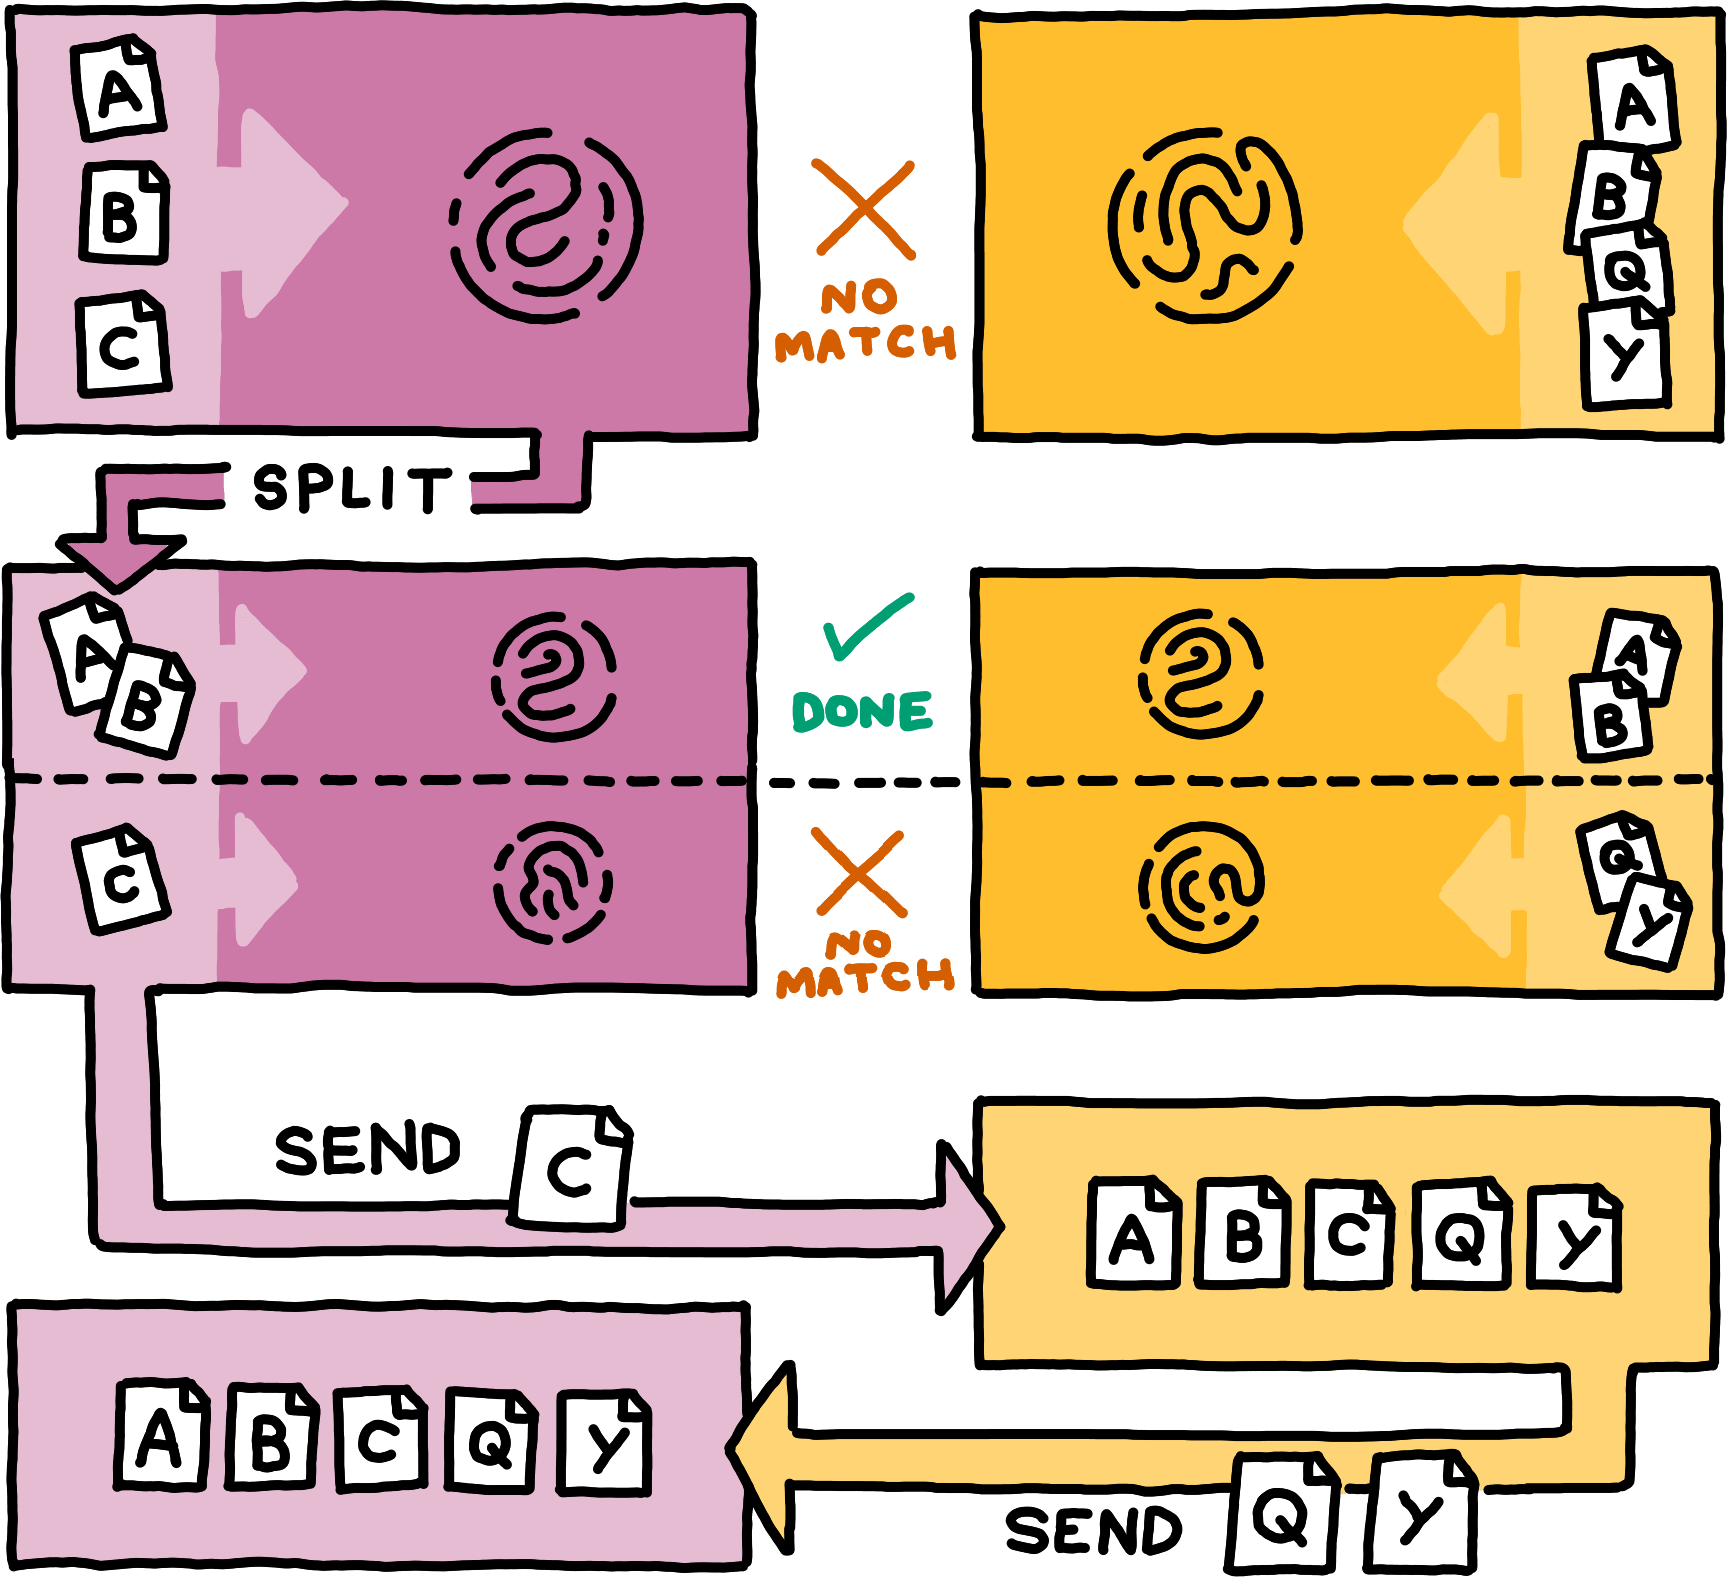
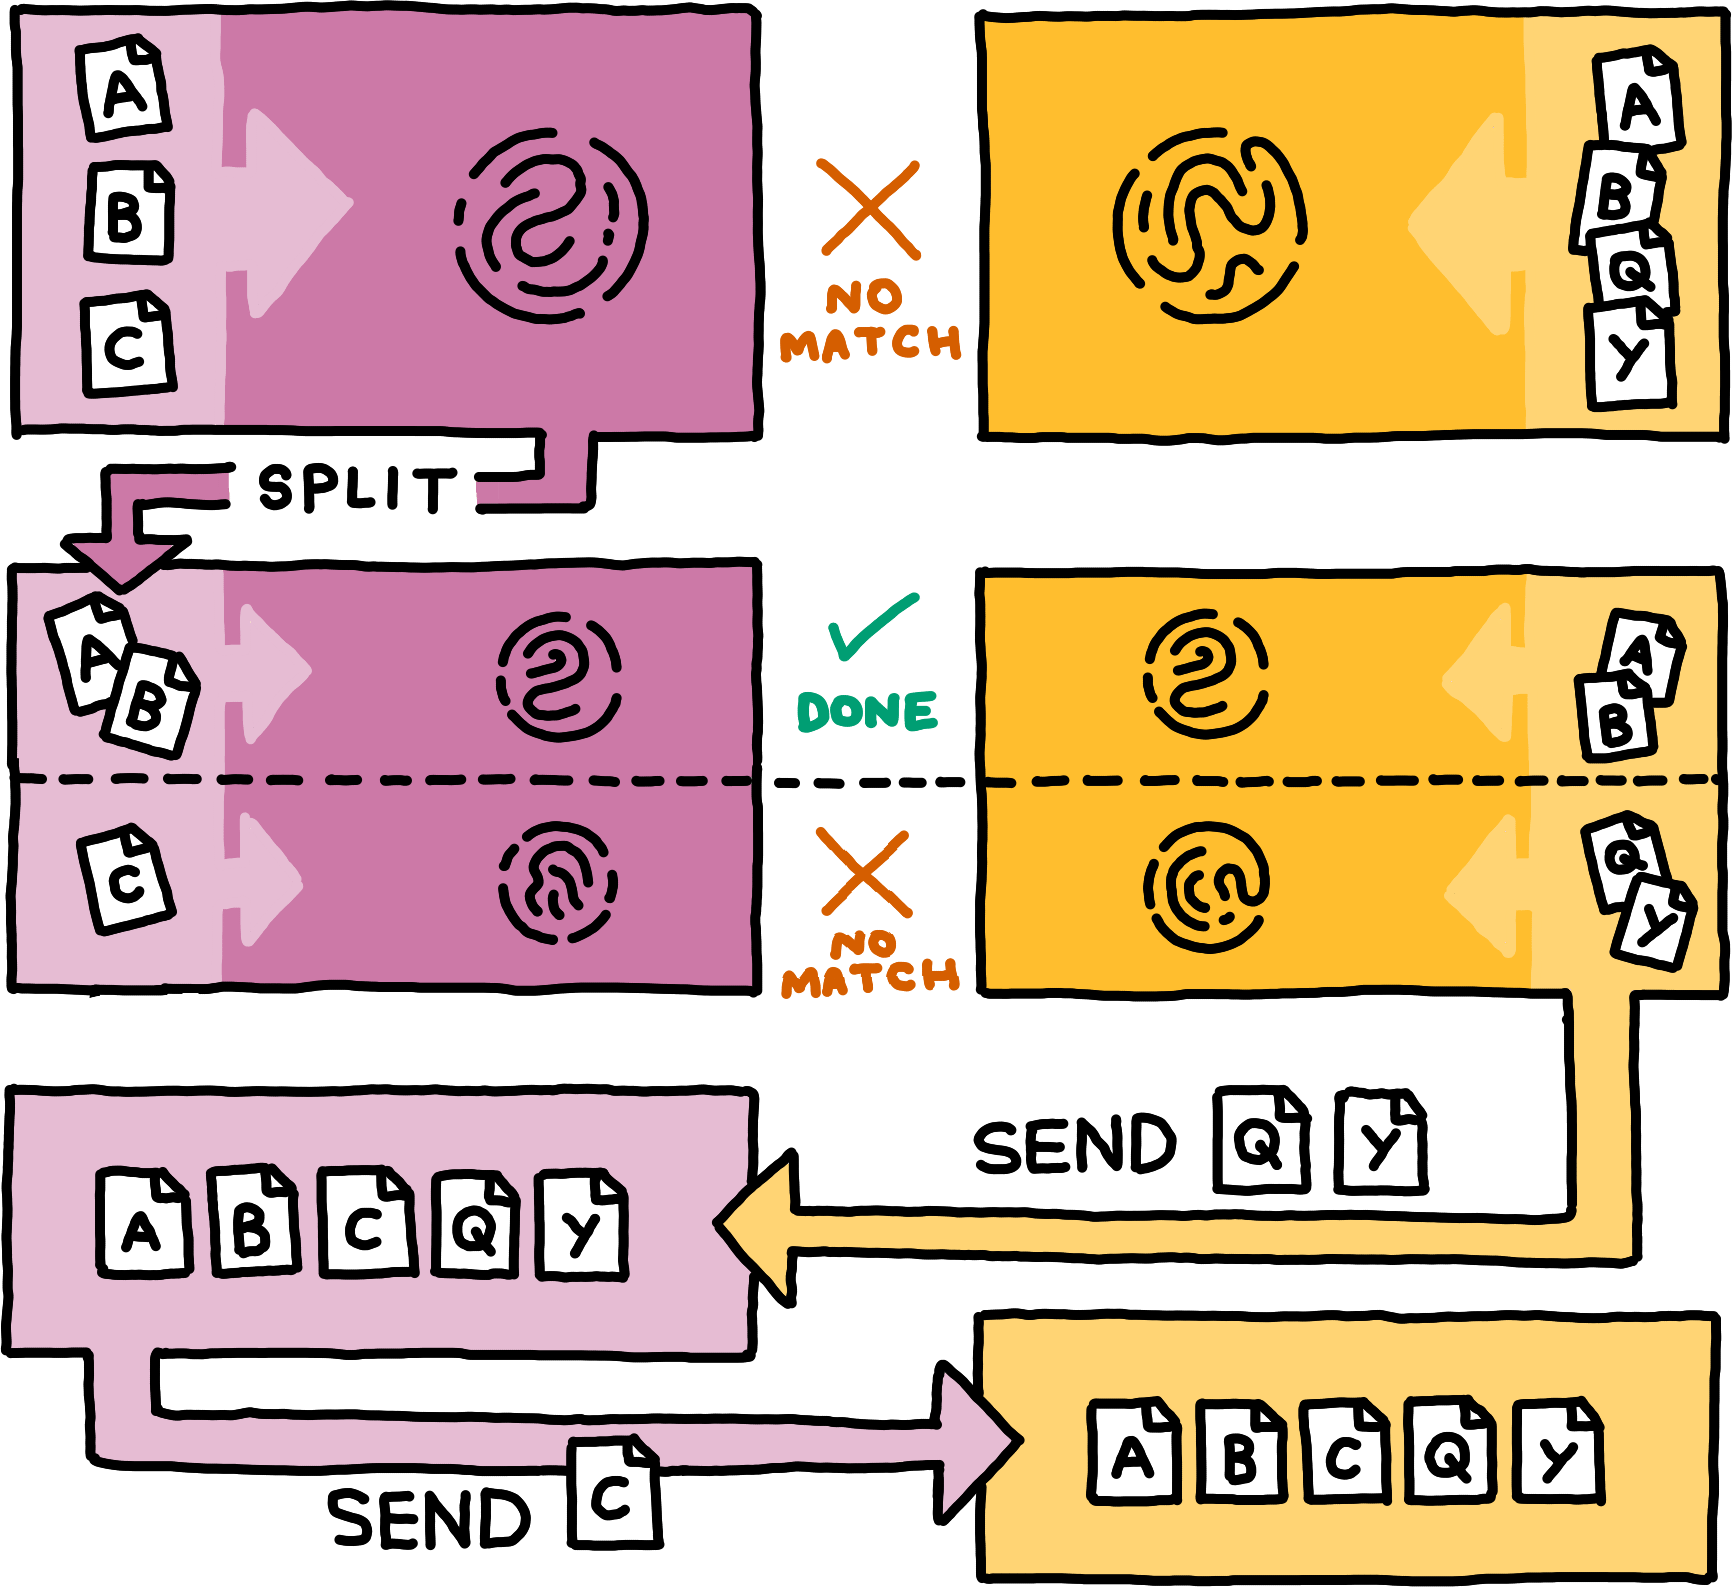
Update RBSR diagrams

diff --git a/willowtest/specs/sync/product_based_set_reconciliation.ts b/willowtest/specs/sync/product_based_set_reconciliation.ts
@@ -77,10 +77,10 @@ export const range3d_based_set_reconciliation: Expression = site_template(
     
     pinformative("If they do not match, there are two options. First, the peer can split its set in half and then initiate set reconciliation for each half concurrently (by transmitting its hashes for both halves). Second, if the set is sufficiently small, the peer can instead simply transmit its items in the set. The other peer responds to this with all other items that it held in the set, completing the process of reconciliation."),
 
-    // figure(
-    //   img(asset("3d_rbsr/fp_nonmatching.png")),
-    //   figcaption(span({ class: 'purple'}, "Alfie"), " and ", span({ class: "orange" }, "Betty"), " produce non-equal fingerprints. ", span({ class: 'purple'}, "Alfie"), " splits the ", r("3dRange"), " in two, yielding a ", r("3dRange"), " ", r("3d_range_include", "including"), " ", rs("Entry"), " ", code("A"), " and ", code("B"), ", and another ", r("3dRange"), " ", r("3d_range_include", "including"), " ", code("C"), ", and sends these ", rs("3dRange"), " and their fingerprints to ", span({ class: "orange" }, "Betty"), ". ", span({ class: "orange" }, "Betty"), " produces a matching fingerprint for the first ", r("3dRange"), ". As the mismatched ", rs("3dRange"), " includes so few ", rs("Entry"), ", ", span({ class: 'purple'}, "Alfie"), " sends entry ", code("C"), " to ", span({ class: "orange" }, "Betty"), ". In response, ", span({ class: "orange" }, "Betty"), " sends ", rs("Entry"), " ", code("Q"), " and ", code("Y"), " to ", span({ class: 'purple'}, "Alfie"), ".")
-    // ),
+    figure(
+      img(asset("3d_rbsr/fp_nonmatching.png")),
+      figcaption(span({ class: 'purple'}, "Alfie"), " and ", span({ class: "orange" }, "Betty"), " produce non-equal fingerprints. ", span({ class: 'purple'}, "Alfie"), " splits the ", r("3dRange"), " in two, yielding a ", r("3dRange"), " ", r("3d_range_include", "including"), " ", rs("Entry"), " ", code("A"), " and ", code("B"), ", and another ", r("3dRange"), " ", r("3d_range_include", "including"), " ", code("C"), ", and sends these ", rs("3dRange"), " and their fingerprints to ", span({ class: "orange" }, "Betty"), ". ", span({ class: "orange" }, "Betty"), " produces a matching fingerprint for the first ", r("3dRange"), ". As the mismatched ", rs("3dRange"), " includes so few ", rs("Entry"), ", ", span({ class: 'purple'}, "Alfie"), " sends entry ", code("C"), " to ", span({ class: "orange" }, "Betty"), ". In response, ", span({ class: "orange" }, "Betty"), " sends ", rs("Entry"), " ", code("Q"), " and ", code("Y"), " to ", span({ class: 'purple'}, "Alfie"), ".")
+    ),
    
     pinformative("Overall, the peers collaboratively drill down to the differences between their two sets in a logarithmic number of communication rounds, spending only little bandwidth on those regions of the original sets where they hold the same items. Note that peers can actually split sets into arbitrarily many subsets in each step. Splitting into more subsets per step decreases the total number of communication rounds."),
     
